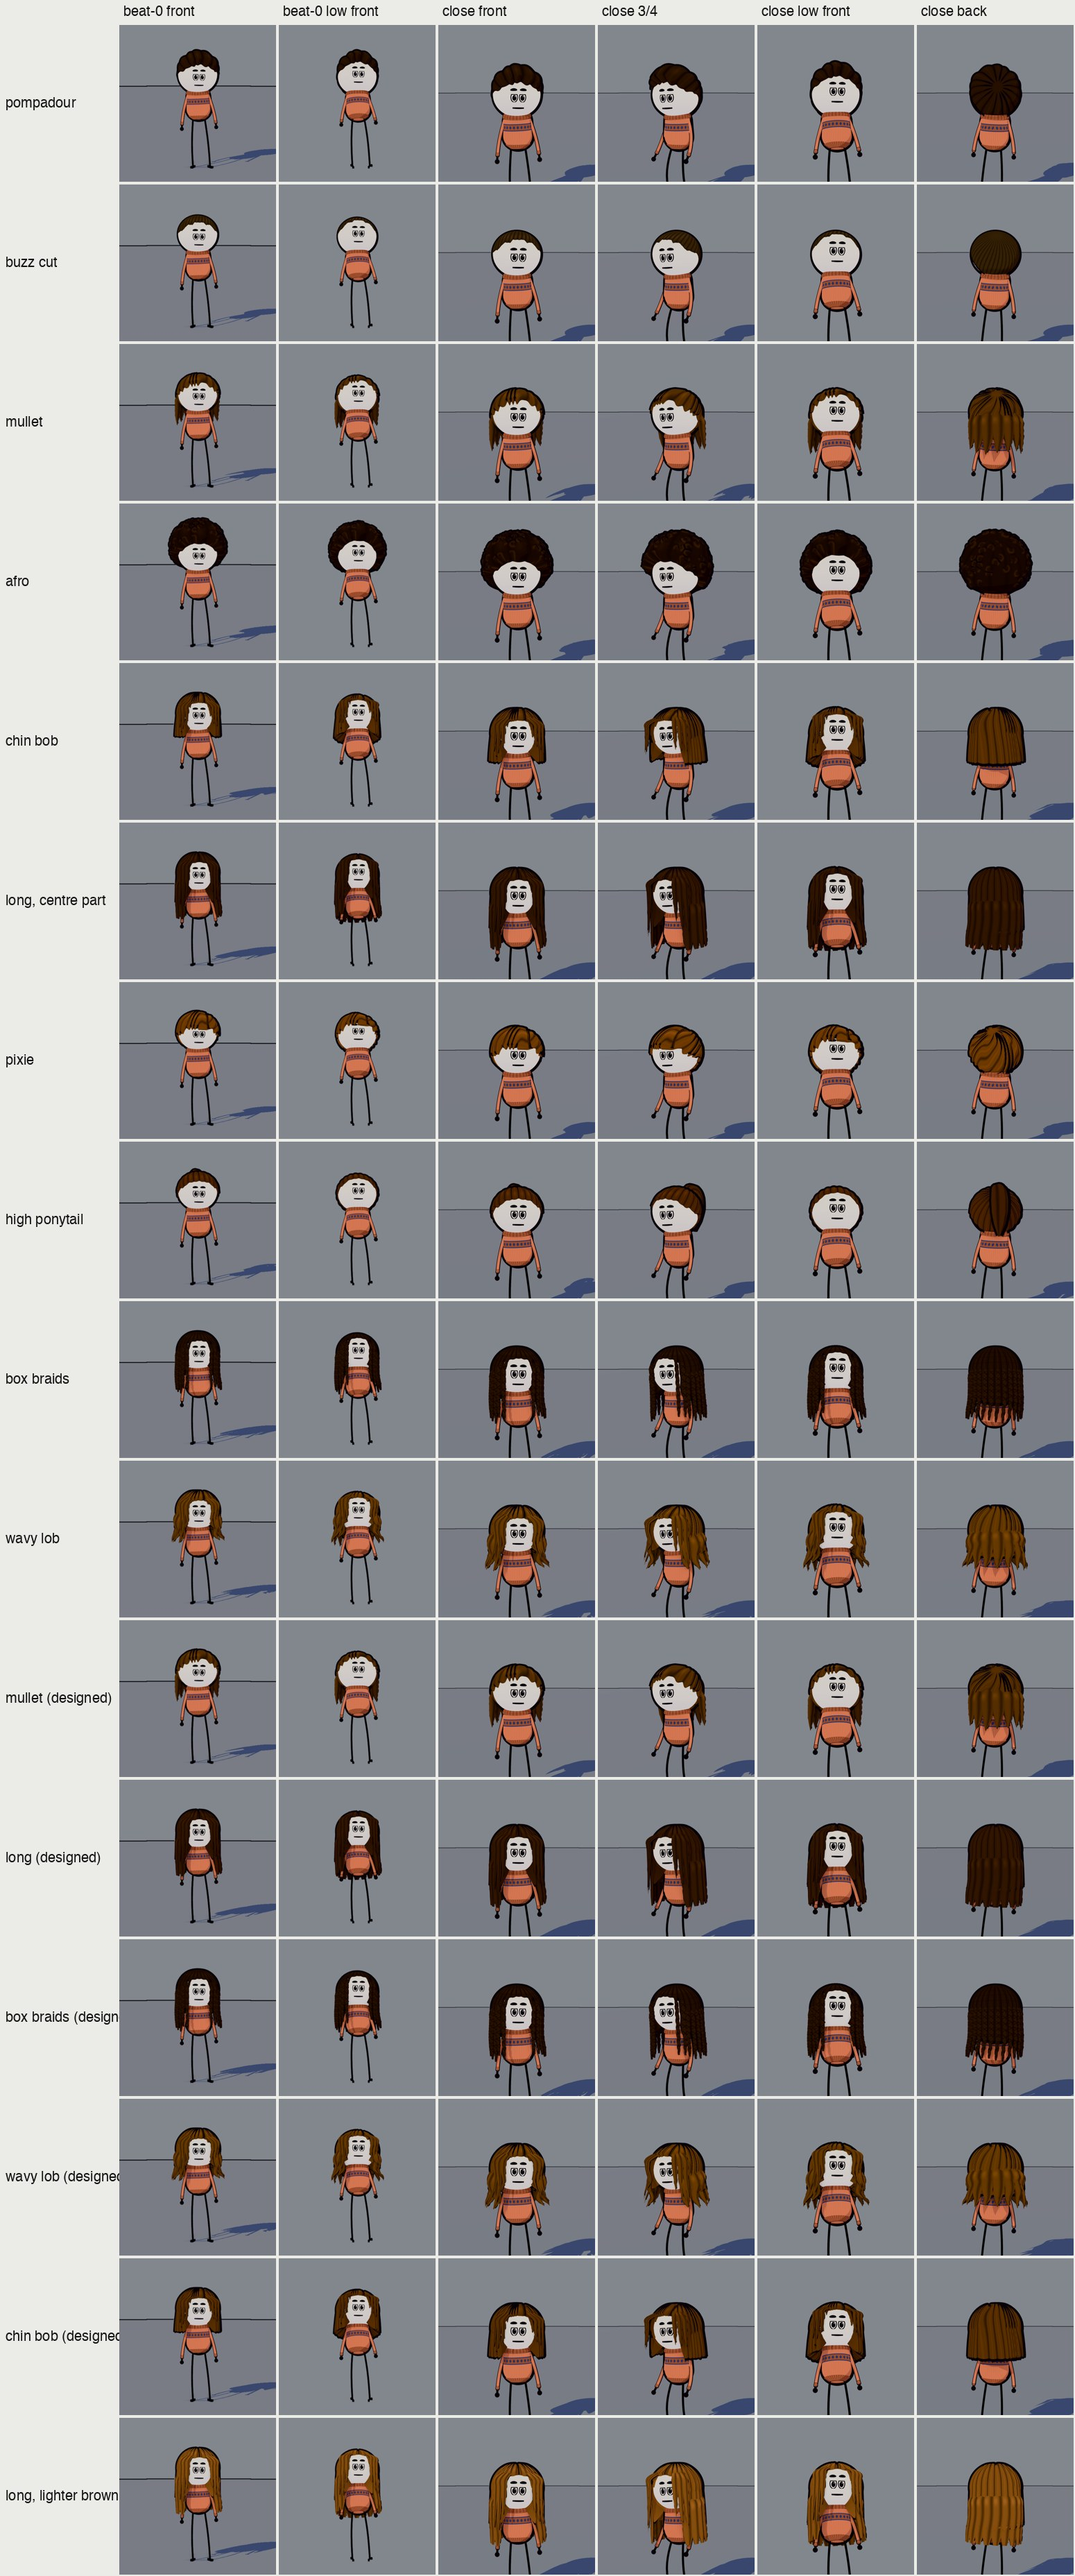
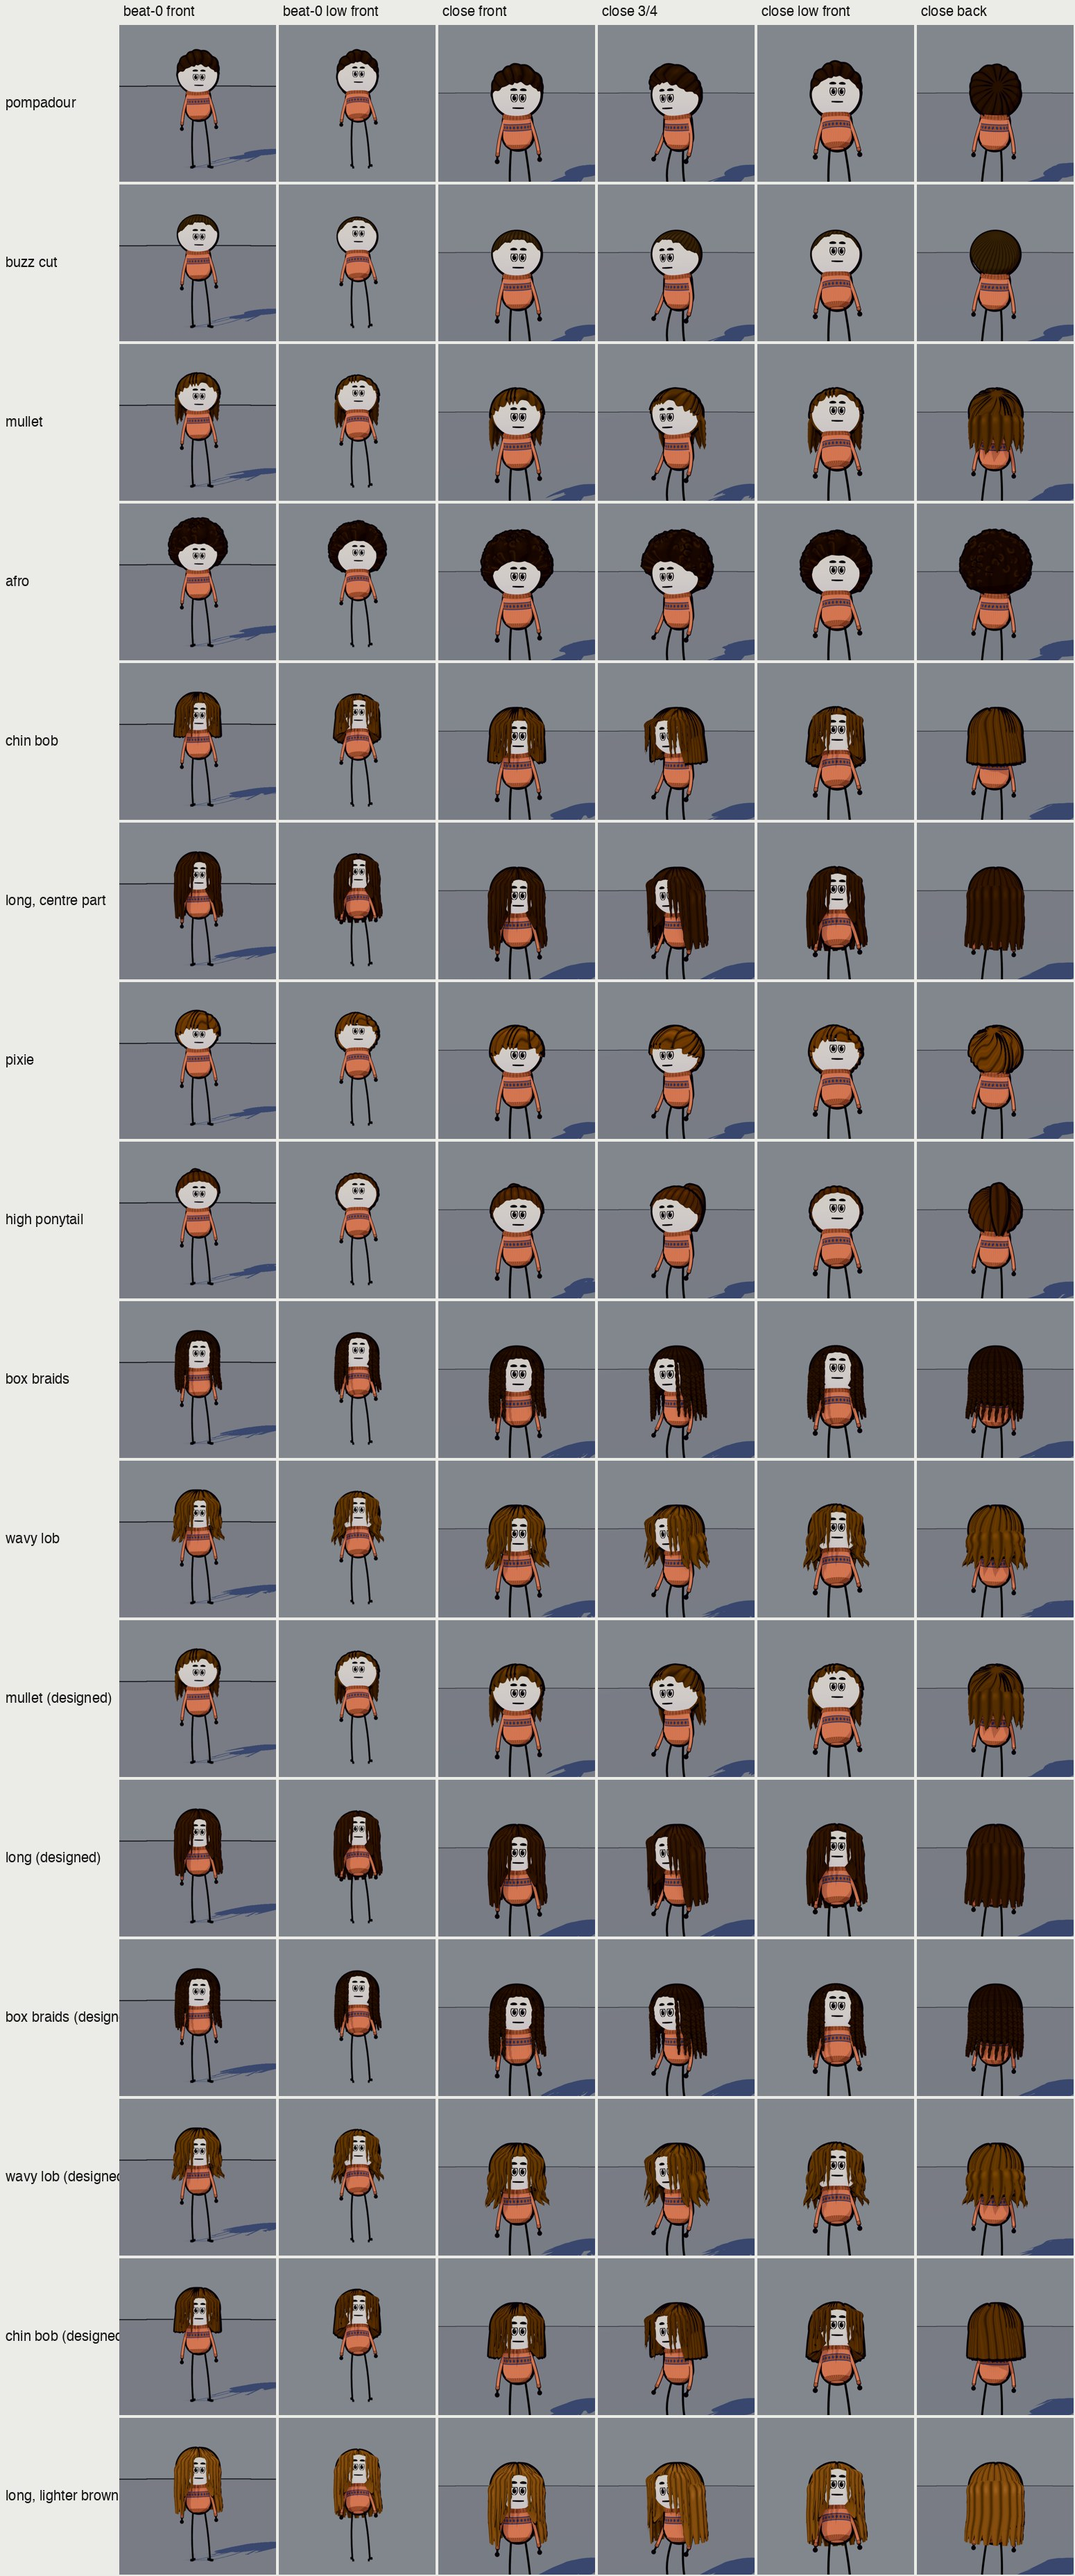
stick-man kit: a lock over the bell's front edge each side (no straight 3/4 line), long falls laid over the bell from the top (back tier softer); sheet rebuilt

diff --git a/styles/stick-man/kit/cast/hair.js b/styles/stick-man/kit/cast/hair.js
@@ -64,12 +64,14 @@ const STYLES = {
   // a chin bob: a bell that falls straight from the crown to the jaw, a blunt hem, a side part
   bob:   { neck: true, col: [0.42, 0.26, 0.14], whorl: [0, 1, -0.08], locks: 30, jit: 0.25, twist: 0, clump: 0.016, base: 0.030, lift: 0.020, tips: 0.006, part: 0.12, lo: edge({ front: 0.30, side: -0.04 }),
            hang: { from: 0.02, flare: 0.10, hem: [[0, 0.30], [30, 0.28], [48, -0.36], [180, -0.38]], tips: 0.06, edge: 14 },
-           falls: [{ lon: [30, 48], n: 3, from: 0.22, to: -0.36, toAt: [0.8, 1.0, 0.9], rho: 0.14, flat: 0.4, flare: 0.05, jit: 0.3, tip: 'point', ridges: 3, seed: 9 }] },   // face-framing locks
+           falls: [{ lon: [20, 28], n: 2, from: 0.26, to: -0.55, toAt: [1.0, 0.7], rho: 0.07, flat: 0.32, flare: 0.04, jit: 0.3, tip: 'point', ridges: 3, seed: 13 },   // a lock over the bell's front edge each side: no straight line in 3/4
+                   { lon: [30, 48], n: 3, from: 0.22, to: -0.36, toAt: [0.8, 1.0, 0.9], rho: 0.14, flat: 0.4, flare: 0.05, jit: 0.3, tip: 'point', ridges: 3, seed: 9 }] },   // face-framing locks
   // long and straight, parted in the middle: the scalp falls to the jaw, two curtains of flat locks on to the chest
   long:  { neck: true, col: [0.26, 0.15, 0.08], whorl: [0, 1, -0.05], locks: 24, twist: 0, clump: 0.014, base: 0.026, lift: 0.014, tips: 0.006, part: 0, lo: edge({ front: 0.30, side: -0.04 }),
            hang: { from: 0.02, flare: 0.04, hem: [[0, 0.30], [30, 0.28], [48, -0.40], [180, -0.42]], tips: 0.09, edge: 14 },
-           falls: [{ lon: [30, 50], n: 3, from: 0.22, to: -0.80, toAt: [0.75, 1.0, 0.9], rho: 0.10, flat: 0.32, flare: 0.06, jit: 0.35, tip: 'point', ridges: 3, seed: 9 },   // face-framing locks: uneven, tapered, angled out from the temple, laid over the bell's front edge (rho past the bell: inside it they never showed)
-                   { lon: [52, 180], n: 8, from: -0.30, to: -1.15, rho: 0.045, flat: 0.32, flare: 0.03, tip: 'blunt', ridges: 3 }] },
+           falls: [{ lon: [20, 28], n: 2, from: 0.26, to: -0.55, toAt: [1.0, 0.7], rho: 0.07, flat: 0.32, flare: 0.04, jit: 0.3, tip: 'point', ridges: 3, seed: 13 },   // a lock over the bell's front edge each side: no straight line in 3/4
+                   { lon: [30, 50], n: 3, from: 0.22, to: -0.80, toAt: [0.75, 1.0, 0.9], rho: 0.10, flat: 0.32, flare: 0.06, jit: 0.35, tip: 'point', ridges: 3, seed: 9 },   // face-framing locks: uneven, tapered, angled out from the temple, laid over the bell's front edge (rho past the bell: inside it they never showed)
+                   { lon: [52, 180], n: 8, from: -0.02, to: -1.15, rho: 0.065, flat: 0.32, flare: 0.03, tip: 'blunt', ridges: 3 }] },
   // a pixie: a short feathered cap, a wispy fringe swept to one side, feathered at the nape too
   pixie: { col: [0.50, 0.30, 0.15], whorl: [0.15, 0.75, -0.64], locks: 18, twist: 0.30, jit: 0.35, clump: 0.026, base: 0.020, lift: 0.024, tips: 0.090, napeTips: 1, sweep: 0.022, part: 0.20, partSkin: false, lo: [[0, 0.15], [30, 0.14], [62, -0.02], [84, -0.08], [125, -0.36], [180, -0.36]] },   // the sideburn down past the ear's top: no skin wedge in 3/4
   // a high ponytail: the hair drawn tight to a tie high on the crown, one thick club of a tail off it
@@ -84,7 +86,8 @@ const STYLES = {
   // a wavy lob: a soft S-wave mass to the shoulders, the tips turning out
   lob:   { neck: true, col: [0.46, 0.29, 0.14], whorl: [0, 1, -0.10], locks: 22, twist: 0.10, jit: 0.15, clump: 0.022, base: 0.030, lift: 0.024, tips: 0.010, part: 0.10, lo: edge({ front: 0.30, side: -0.04 }),
            hang: { from: 0.02, flare: 0.08, hem: [[0, 0.30], [30, 0.28], [48, -0.30], [180, -0.36]], tips: 0.04, edge: 14 },
-           falls: [{ lon: [30, 50], n: 3, from: 0.22, to: -0.60, toAt: [0.7, 1.0, 0.85], rho: 0.12, flat: 0.45, flare: 0.03, wave: [0.03, 2.2], flick: 0.05, jit: 0.35, tip: 'point', ridges: 3, seed: 9 },   // face-framing locks
+           falls: [{ lon: [20, 28], n: 2, from: 0.26, to: -0.55, toAt: [1.0, 0.7], rho: 0.07, flat: 0.32, flare: 0.04, jit: 0.3, tip: 'point', ridges: 3, seed: 13 },   // a lock over the bell's front edge each side: no straight line in 3/4
+                   { lon: [30, 50], n: 3, from: 0.22, to: -0.60, toAt: [0.7, 1.0, 0.85], rho: 0.12, flat: 0.45, flare: 0.03, wave: [0.03, 2.2], flick: 0.05, jit: 0.35, tip: 'point', ridges: 3, seed: 9 },   // face-framing locks
                    { lon: [50, 180], n: 7, from: -0.20, to: -0.78, rho: 0.06, flat: 0.45, flare: 0.04, wave: [0.035, 2.2], flick: 0.06, jit: 0.08, tip: 'point', ridges: 3 }] },
 };
 export const HAIR_STYLES = Object.keys(STYLES);
